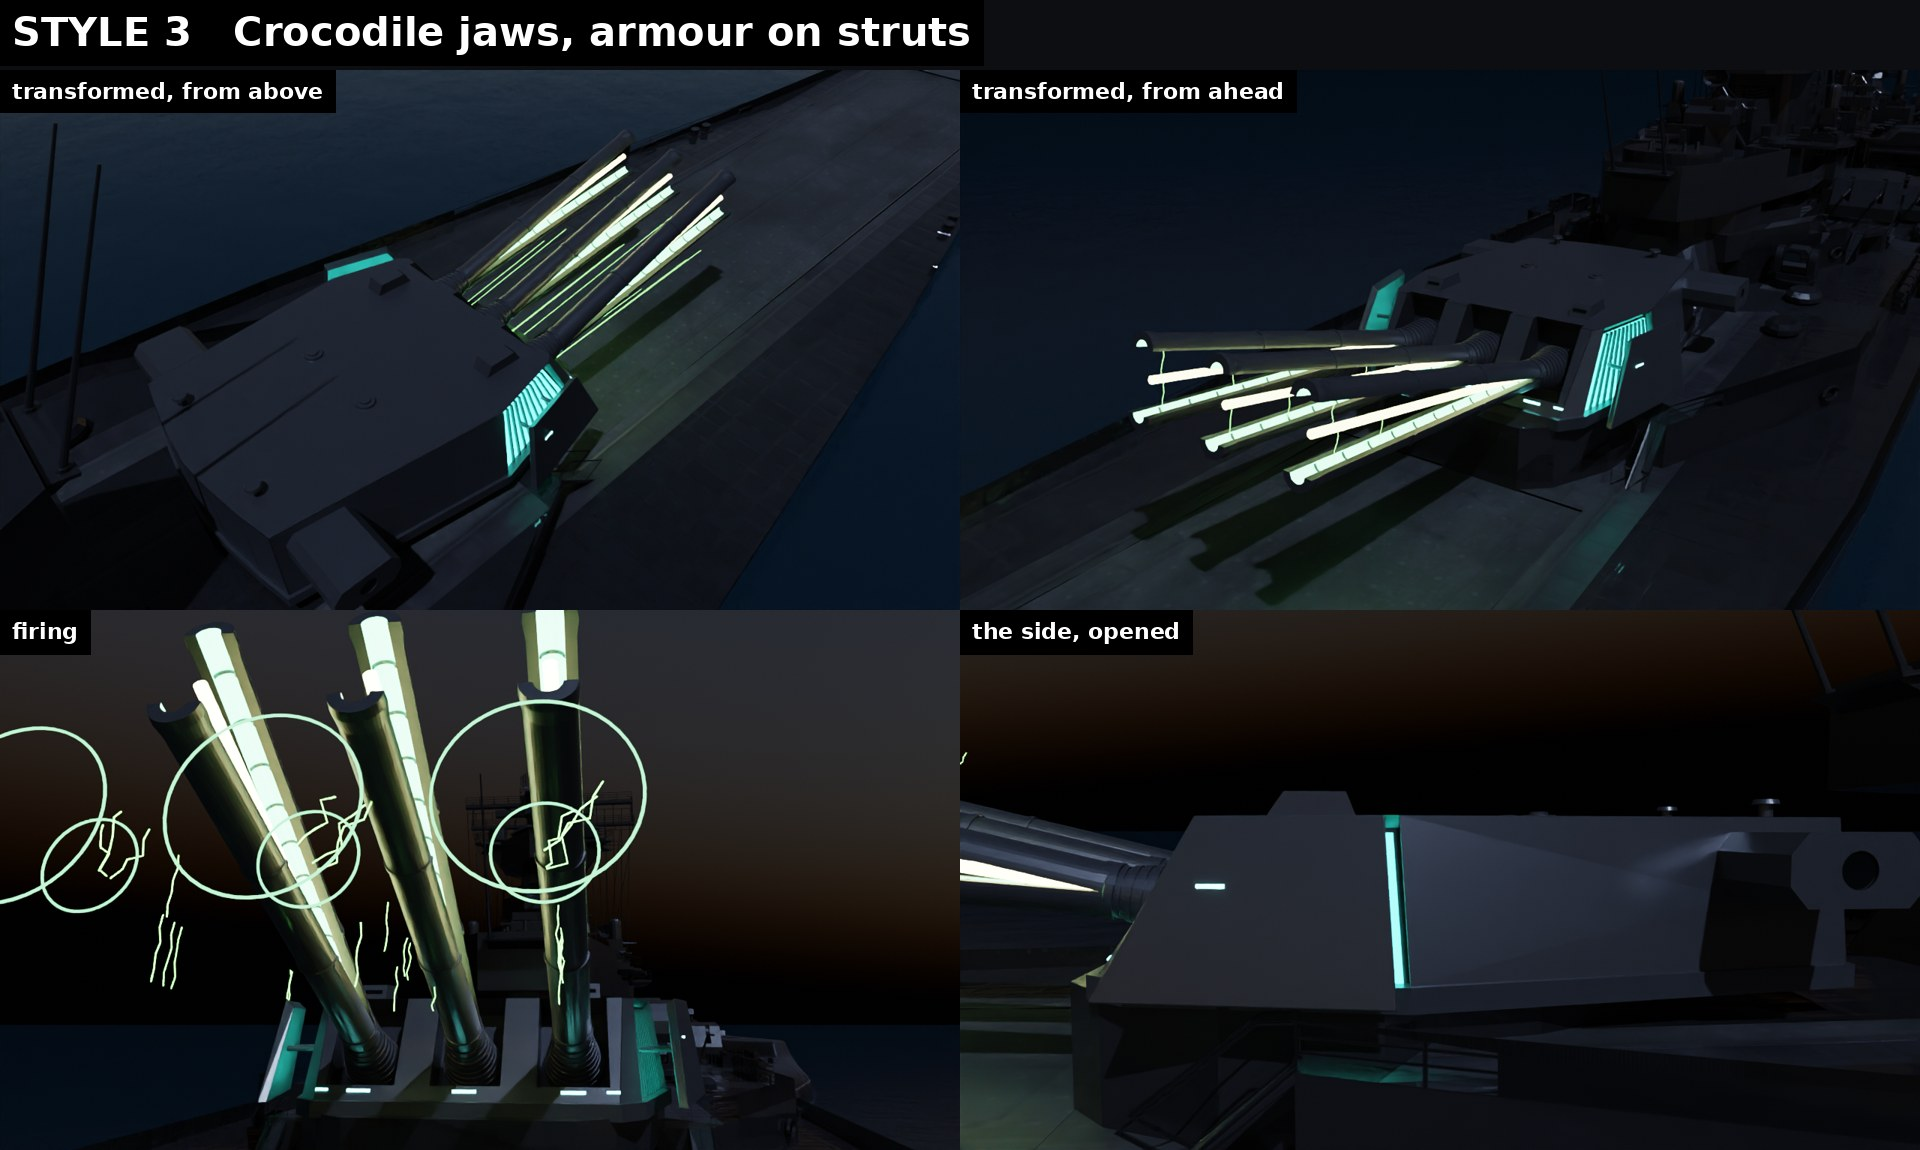
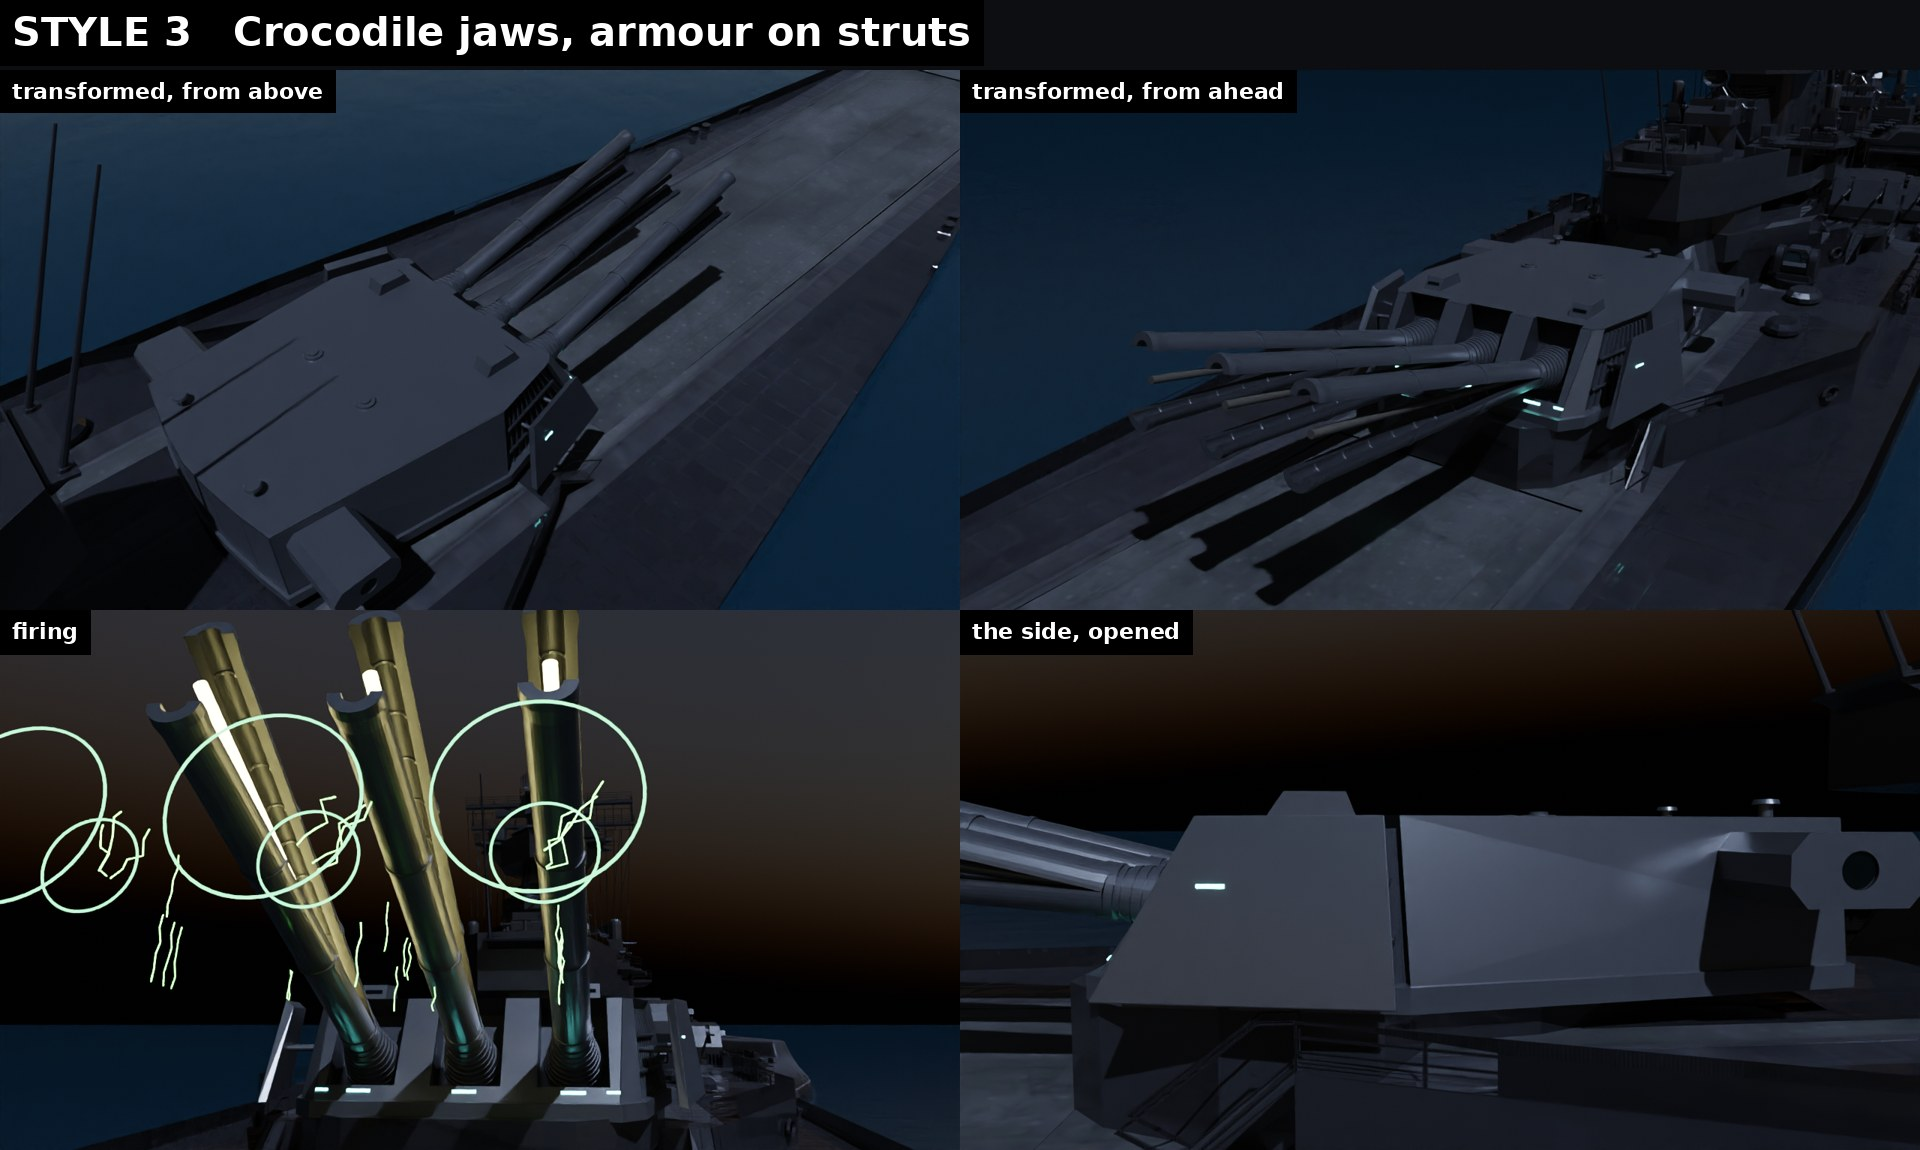
[claude] the 16-inch fire mode's styles: nothing inside glows
The user: "Don't have the insides glow". The bays under the armour are dark machinery (a sunk panel, ribs, pipes), the
fins under the roof and the barrels' bores dark; the core rods light only as the guns fire (firemode.FIRE, glow(t,
fire)). Only the running lights outside glow, and style 8's circuit lines on the outer armour. The style previews were
rendered again (a brighter moon so the dark interiors read; no lightning in the transformed views, only the firing
one): art/tanicorn/renders/styles.

Claude-Session: https://claude.ai/code/session_01ETZWABucPK2sg8WEzfeHjA

diff --git a/tools/tanicorn/firemode.py b/tools/tanicorn/firemode.py
@@ -12,10 +12,11 @@ style is our own geometry built here (no other work's model or drawing is used).
 Imported by model_tanacorn.py (TANA_FM_STYLE: the style, DEFAULT_STYLE when unset, 0 for none: the design's Iowa
 mount) and by styles_firemode.py (each style built in turn and rendered for the choice). It REPLACES the Iowa's mount
 on both turrets (LEV_T16_FWD / _AFT): the house object gets the house, the gun object the guns' fixed parts (bloomer
-boots, the barrels' root rings, the glowing core rods), the trunnion moves back to 1.2 m behind the face. The house is
+boots, the barrels' root rings, the core rods), the trunnion moves back to 1.2 m behind the face. The house is
 an armour SHELL over a dark core: thirteen wall slabs and the roof, each mitred to its neighbours with a seam between;
-stowed, a battleship turret with dim running lights. In fire mode the style's slabs move (the bays under them glow) and
-every barrel forward of its root splits into 2-4 pieces round its core rod.
+stowed, a battleship turret with dim running lights. In fire mode the style's slabs move off dark machinery bays and
+every barrel forward of its root splits into 2-4 pieces round its core rod. Nothing inside glows (GLOW): the core rods
+light only as the guns fire.
 
 Pieces are objects TANA_T16_<tag>_<bone>, each carrying its motion (fm_ops, json: translations and turns, each over a
 stretch of the 2.5 s transform), its part (fm_part ARMOR: on turret_yaw, GUNS: on turret_pitch) and bone (fm_bone).
@@ -89,24 +90,26 @@ def smooth(t, a, b):
 
 
 # ---------------------------------------------------------------------------------------------------- materials
+# Nothing inside glows (the user, 2026-11-11: "Don't have the insides glow"): the bays under the armour, the fins under
+# the roof and the barrels' bores are dark machinery. Only the running lights outside glow (dim stowed, brighter in fire
+# mode), and the core rods only while a gun fires (FIRE: glow(t, fire)).
 GLOW = {   # key: (base colour, emission colour, strength stowed, strength in fire mode, its stretch)
-    "fm_bank": ((0.015, 0.11, 0.10), (0.05, 0.90, 0.72), 0.0, 4.0, STAGE_ARMOUR),
-    "fm_rail": ((0.015, 0.09, 0.06), (0.25, 1.00, 0.45), 0.0, 3.0, STAGE_GLOW),
-    "fm_core": ((0.20, 0.17, 0.05), (1.00, 0.85, 0.35), 0.0, 6.0, STAGE_GLOW),
+    "fm_core": ((0.06, 0.055, 0.045), (1.00, 0.85, 0.35), 0.0, 0.0, STAGE_GLOW),
     "fm_slit": ((0.06, 0.40, 0.36), (0.20, 0.95, 0.88), 1.0, 7.0, STAGE_SLIT),
 }
+FIRE = {"fm_core": 8.0}                   # a core rod's glow as its gun fires
 MAT = {}
 for _k, (_base, _emit, _lo, _hi, _st) in GLOW.items():
     MAT[_k] = tanakit.mat("TANA_" + _k, _base, 0.2, 0.3, _emit, _lo)
     MAT[_k]["tana_glow"] = True
 
 
-def glow(t, boost=None):
-    """every glow material's strength at t (the baked parts' copies too: TANA_<part>_fm_*); boost {key: factor}"""
+def glow(t, fire=0.0):
+    """every glow material's strength at t (the baked parts' copies too: TANA_<part>_fm_*); fire 0..1: a shot"""
     for m in bpy.data.materials:
         for k, (_, _, lo, hi, st) in GLOW.items():
             if m.name.endswith(k) and m.use_nodes and m.node_tree.nodes.get("Principled BSDF"):
-                v = (lo + (hi - lo) * smooth(t, *st)) * (boost or {}).get(k, 1.0)
+                v = lo + (hi - lo) * smooth(t, *st) + FIRE.get(k, 0.0) * fire
                 m.node_tree.nodes["Principled BSDF"].inputs["Emission Strength"].default_value = v
 
 
@@ -264,17 +267,21 @@ def slab(part, S, name, region=WHOLE, m=M_PAINT, seam=0.035):
 
 
 def bay(part, S, name):
-    """what's under a wall's armour: a lit panel on the core and dark ribs across it (seen when the armour moves)"""
+    """what's under a wall's armour (seen when the armour moves): dark machinery, unlit: a sunk panel, ribs across it,
+    two pipes along it"""
     O, I, u, v, n = S.wall(name)
     q = shrink([S.at(I, s, w) for s, w in WHOLE], 0.25)
-    hexa(part, [p + n * 0.04 for p in q], [p - n * 0.05 for p in q], MAT["fm_bank"], post=True)
+    hexa(part, [p + n * 0.04 for p in q], [p - n * 0.05 for p in q], M_DARK, post=True)
     L = (q[1] - q[0]).length
     k = 0.7
     while k < L - 0.4:
         f = k / L
         a, b = q[0].lerp(q[1], f), q[3].lerp(q[2], f)
-        box(part, (a + b) / 2.0 + n * 0.12, (u, (b - a).normalized(), n), (0.14, (b - a).length, 0.24), M_DARK, post=True)
+        box(part, (a + b) / 2.0 + n * 0.12, (u, (b - a).normalized(), n), (0.14, (b - a).length, 0.24), M_PAINT, post=True)
         k += 0.85
+    for w in (0.3, 0.68):
+        a, b = q[0].lerp(q[3], w), q[1].lerp(q[2], w)
+        cyl(part, 0.13, 0.13, (b - a).length - 0.3, (a + b) / 2.0 + n * 0.3, b - a, M_DARK, 12, post=True)
 
 
 def roof_slab(part, S, x_lo=None, x_hi=None, side=0, gap=0.04):
@@ -420,7 +427,7 @@ def stays_part():
             cone_x(p, x0, x1, r, r - 0.03, yc, 0.0, M_PAINT, SEG)
         cone_x(p, 2.7, SPLIT + 0.02, 1.12, 1.1, yc, 0.0, M_PAINT, SEG)
         cone_x(p, SPLIT - 0.4, MUZZLE - 0.7, CORE_R, CORE_R, yc, 0.0, MAT["fm_core"], 24)
-        cone_x(p, SPLIT - 0.05, SPLIT + 0.08, BORE + 0.03, BORE + 0.03, yc, 0.0, MAT["fm_rail"], 32, cut=True)
+        cone_x(p, SPLIT - 0.05, SPLIT + 0.08, BORE + 0.03, BORE + 0.03, yc, 0.0, M_DARK, 32, cut=True)
     return p
 
 
@@ -439,7 +446,7 @@ def piece_part(n_split):
         box(p, Vector((L / 2.0, 0, 0)) + nrm * (sgn * W / 2.0), (XYZ[0], r, nrm), (L + 4.0, 2 * W, W), M_DARK, cut=True)
         if n_split == 2:
             break
-    cone_x(p, -1.0, L + 1.0, BORE, BORE, 0.0, 0.0, MAT["fm_rail"], SEG, cut=True)
+    cone_x(p, -1.0, L + 1.0, BORE, BORE, 0.0, 0.0, M_DARK, SEG, cut=True)
     x = 1.2
     while x < L - 1.0:
         arc_tube(p, x, BORE - 0.01, -half + math.radians(9), half - math.radians(9), 0.075, M_PAINT)
@@ -575,12 +582,12 @@ def build(coll, log=print, style=None):
     if not roof_moves:
         roof_slab(h, S)
         roof_details(h, S)
-    else:                                                   # under the roof: a lit floor and heat-sink fins
+    else:                                                   # under the roof: a dark floor and heat-sink fins
         q = offset2d(S.Tc, -0.3)
-        loft(h, q, S.zc - 0.05, q, S.zc + 0.04, MAT["fm_bank"], post=True)
+        loft(h, q, S.zc - 0.05, q, S.zc + 0.04, M_DARK, post=True)
         x = min(p[0] for p in q) + 0.6
         while x < max(p[0] for p in q) - 0.6:
-            abox(h, (x - 0.08, S.y0 - 6.0, S.zc), (x + 0.08, S.y0 + 6.0, S.zc + 0.32), M_DARK, post=True)
+            abox(h, (x - 0.08, S.y0 - 6.0, S.zc), (x + 0.08, S.y0 + 6.0, S.zc + 0.32), M_PAINT, post=True)
             x += 0.6
     for s, sg in (("L", 1.0), ("R", -1.0)):
         if "aside_" + s not in moves:
@@ -664,10 +671,10 @@ def attach(log=print):
     return TURRET
 
 
-def pose(t, boost=None):
+def pose(t, fire=0.0):
     for T in TURRET.values():
         T.pose(t)
-    glow(t, boost)
+    glow(t, fire)
 
 
 def key(log=print):

diff --git a/tools/tanicorn/styles_firemode.py b/tools/tanicorn/styles_firemode.py
@@ -5,9 +5,9 @@
 The model without the mount: model_tanacorn.py with TANA_FM_STYLE=0 (the design's Iowa mount; the style is built here,
 untextured: firemode.BAKE off). At night, as the user's reference stills are (the sun 4 deg under the horizon, a cold
 moon lamp, the glow doing the rest). Turret B (LEV_T16_FWD), three views each like one of the stills:
-  style<N>_1_overhead  from above and behind the turret, its guns lifted 12 deg, transformed and charging
-  style<N>_2_firing    low ahead of it, its guns lifted 30 deg, firing: the cores white-gold, green lightning from the
-                       cores to the open pieces and between them, green rings round the muzzles
+  style<N>_1_overhead  from above and behind the turret, its guns lifted 12 deg, transformed
+  style<N>_2_firing    low ahead of it, its guns lifted 30 deg, firing: the cores lit gold (only now: nothing inside
+                       glows otherwise), green lightning from the cores to the open pieces, green rings at the muzzles
   style<N>_3_side      its port side close up, transformed (the armour off its bays)
   style<N>_4_front     from ahead, above and to port, transformed: the opened guns and the face
   stowed               (with `stowed`) the turret shut, before it transforms (the same for every style)
@@ -56,8 +56,8 @@ if BG:
     BG.inputs["Strength"].default_value = 1.0
 moon = bpy.data.objects.new("PREVIEW_moon", bpy.data.lights.new("PREVIEW_moon", "SUN"))
 sc.collection.objects.link(moon)
-moon.data.energy, moon.data.color, moon.data.angle = 1.1, (0.55, 0.68, 1.0), math.radians(1.0)
-sc.view_settings.exposure = 1.2
+moon.data.energy, moon.data.color, moon.data.angle = 2.0, (0.6, 0.72, 1.0), math.radians(1.0)
+sc.view_settings.exposure = 1.4
 cam = bpy.data.objects.new("CAM_styles", bpy.data.cameras.new("CAM_styles"))
 sc.collection.objects.link(cam)
 cam.data.clip_end = 20000.0
@@ -191,21 +191,21 @@ if STOWED:
     aim(C + Vector((46, 30, 12)), C + Vector((10, 2, 4)), 30)
     render("stowed")
 T.trun.rotation_euler.y = -math.radians(12.0)
-firemode.pose(1.0, {"fm_core": 0.6})
-effects(0.4, 0, 3)
+firemode.pose(1.0)
+effects(0, 0, 3)
 aim(C + Vector((-20, -34, 42)), C + Vector((11, 0, 2)), 26)
 render("style%d_1_overhead" % STYLE)
-firemode.pose(1.0, {"fm_core": 0.6})
-effects(0.4, 0, 5)
+firemode.pose(1.0)
+effects(0, 0, 5)
 aim(C + Vector((62, 30, 26)), C + Vector((17, 0, 6)), 30)
 render("style%d_4_front" % STYLE)
 T.trun.rotation_euler.y = -math.radians(30.0)
-firemode.pose(1.0, {"fm_core": 1.6, "fm_rail": 1.2})
+firemode.pose(1.0, fire=1.0)
 effects(1.0, 1, 7)
 aim(C + Vector((58, 7, 5)), C + Vector((14, 1, 13)), 30)
 render("style%d_2_firing" % STYLE)
 T.trun.rotation_euler.y = -math.radians(10.0)
 firemode.pose(1.0)
-effects(0.3, 0, 11)
+effects(0, 0, 11)
 aim(C + Vector((5, 36, 6)), C + Vector((1, 0, 3.6)), 28)
 render("style%d_3_side" % STYLE)

diff --git a/docs/re/TANICORN.md b/docs/re/TANICORN.md
@@ -146,9 +146,11 @@ until then.
   the mount from scratch on tanakit.py's clean solids, in place of the Iowa's on both turrets: the design's outline,
   size and yaw pivot, the trunnion moved back to 1.2 m behind the face (house frame (11.42, 0.10, 3.17) m), the muzzles
   where they were. The house is an armour SHELL over a dark core: 13 wall slabs and the roof, each mitred to its
-  neighbours with a seam between; under every slab a style moves, a lit bay (glowing panel, dark ribs; under the roof,
-  heat-sink fins). The guns: bloomer boots in wells in the face, tapered barrels, a glowing core rod in each; forward
-  of its root ring each barrel is 2-4 pieces round the core, its bore lit, bracket rings along it.
+  neighbours with a seam between; under every slab a style moves, a bay of dark machinery (a sunk panel, ribs, pipes;
+  under the roof, heat-sink fins). The guns: bloomer boots in wells in the face, tapered barrels, a core rod in each;
+  forward of its root ring each barrel is 2-4 pieces round the core, bracket rings along its bore. **Nothing inside
+  glows** (the user, 2026-11-11: "Don't have the insides glow"): only the running lights outside (dim stowed, brighter
+  in fire mode) and the core rods while the guns fire (firemode.FIRE).
 - **The styles** (`STYLES`): 1 jaws (left / right) + side armour out on struts; 2 jaws + layered armour (the aft and
   forward side walls and the chamfers in three slanted slabs each, staggered out); 3 top / bottom jaws + struts;
   4 sliding rails (halves apart and 3 m forward) + exploded house (the roof in three blocks lifting apart, the side
@@ -174,7 +176,7 @@ until then.
   a PoseableMesh's bone follows the bone as the fire control turns it (standard UE; not yet seen in AC8).
 - **In game, still to build (WP1 / WP11)**: Lua opens a T16 when its fire control engages (`PlayAnimation(Deploy,
   false)` on both components) and shuts it a while after its last shot (`SetPlayRate(-1)`, play); the glow through the
-  glow slots' material instances (`*_fm_bank`, `*_fm_rail`, `*_fm_core`, `*_fm_slit`; AC8's gear material has
+  glow slots' material instances (`*_fm_slit` the running lights, `*_fm_core` the cores as a gun fires; AC8's gear material has
   `Ctrl_All_Emissive` and a Livemap, its emissive mask [?]); the charge and the shot with AC8's own effects at
   SOC_Charge_NN (the Alicorn's lightning `NS_alcn_LiSpark_*`, the rail cannon's discharge; hard rule 58: never our
   own compiled materials).
